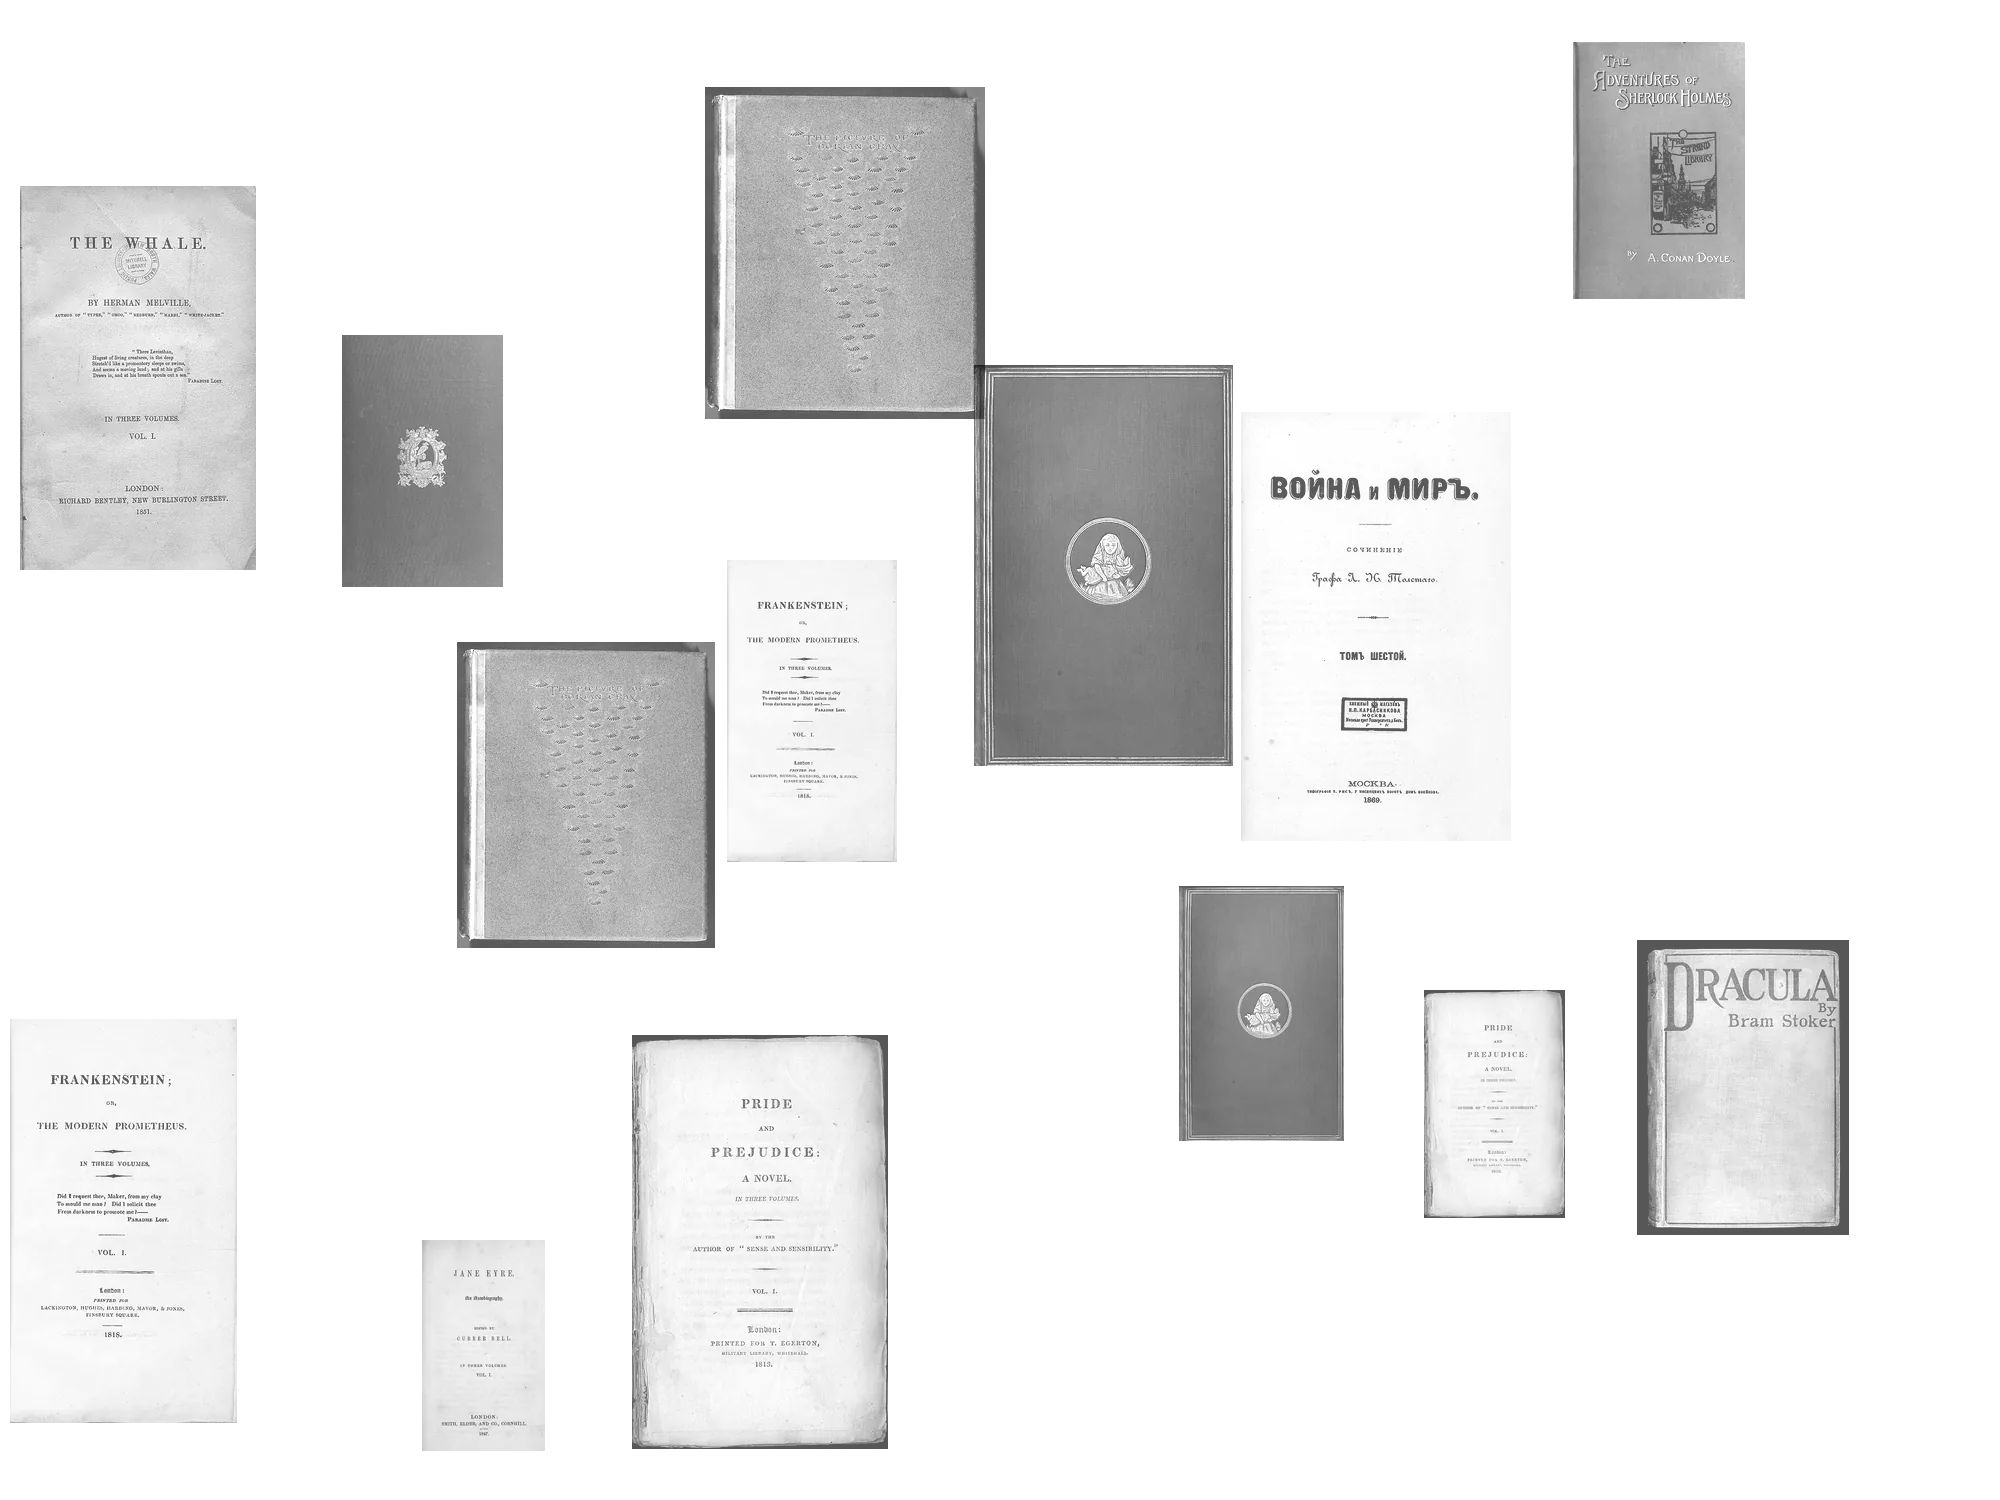
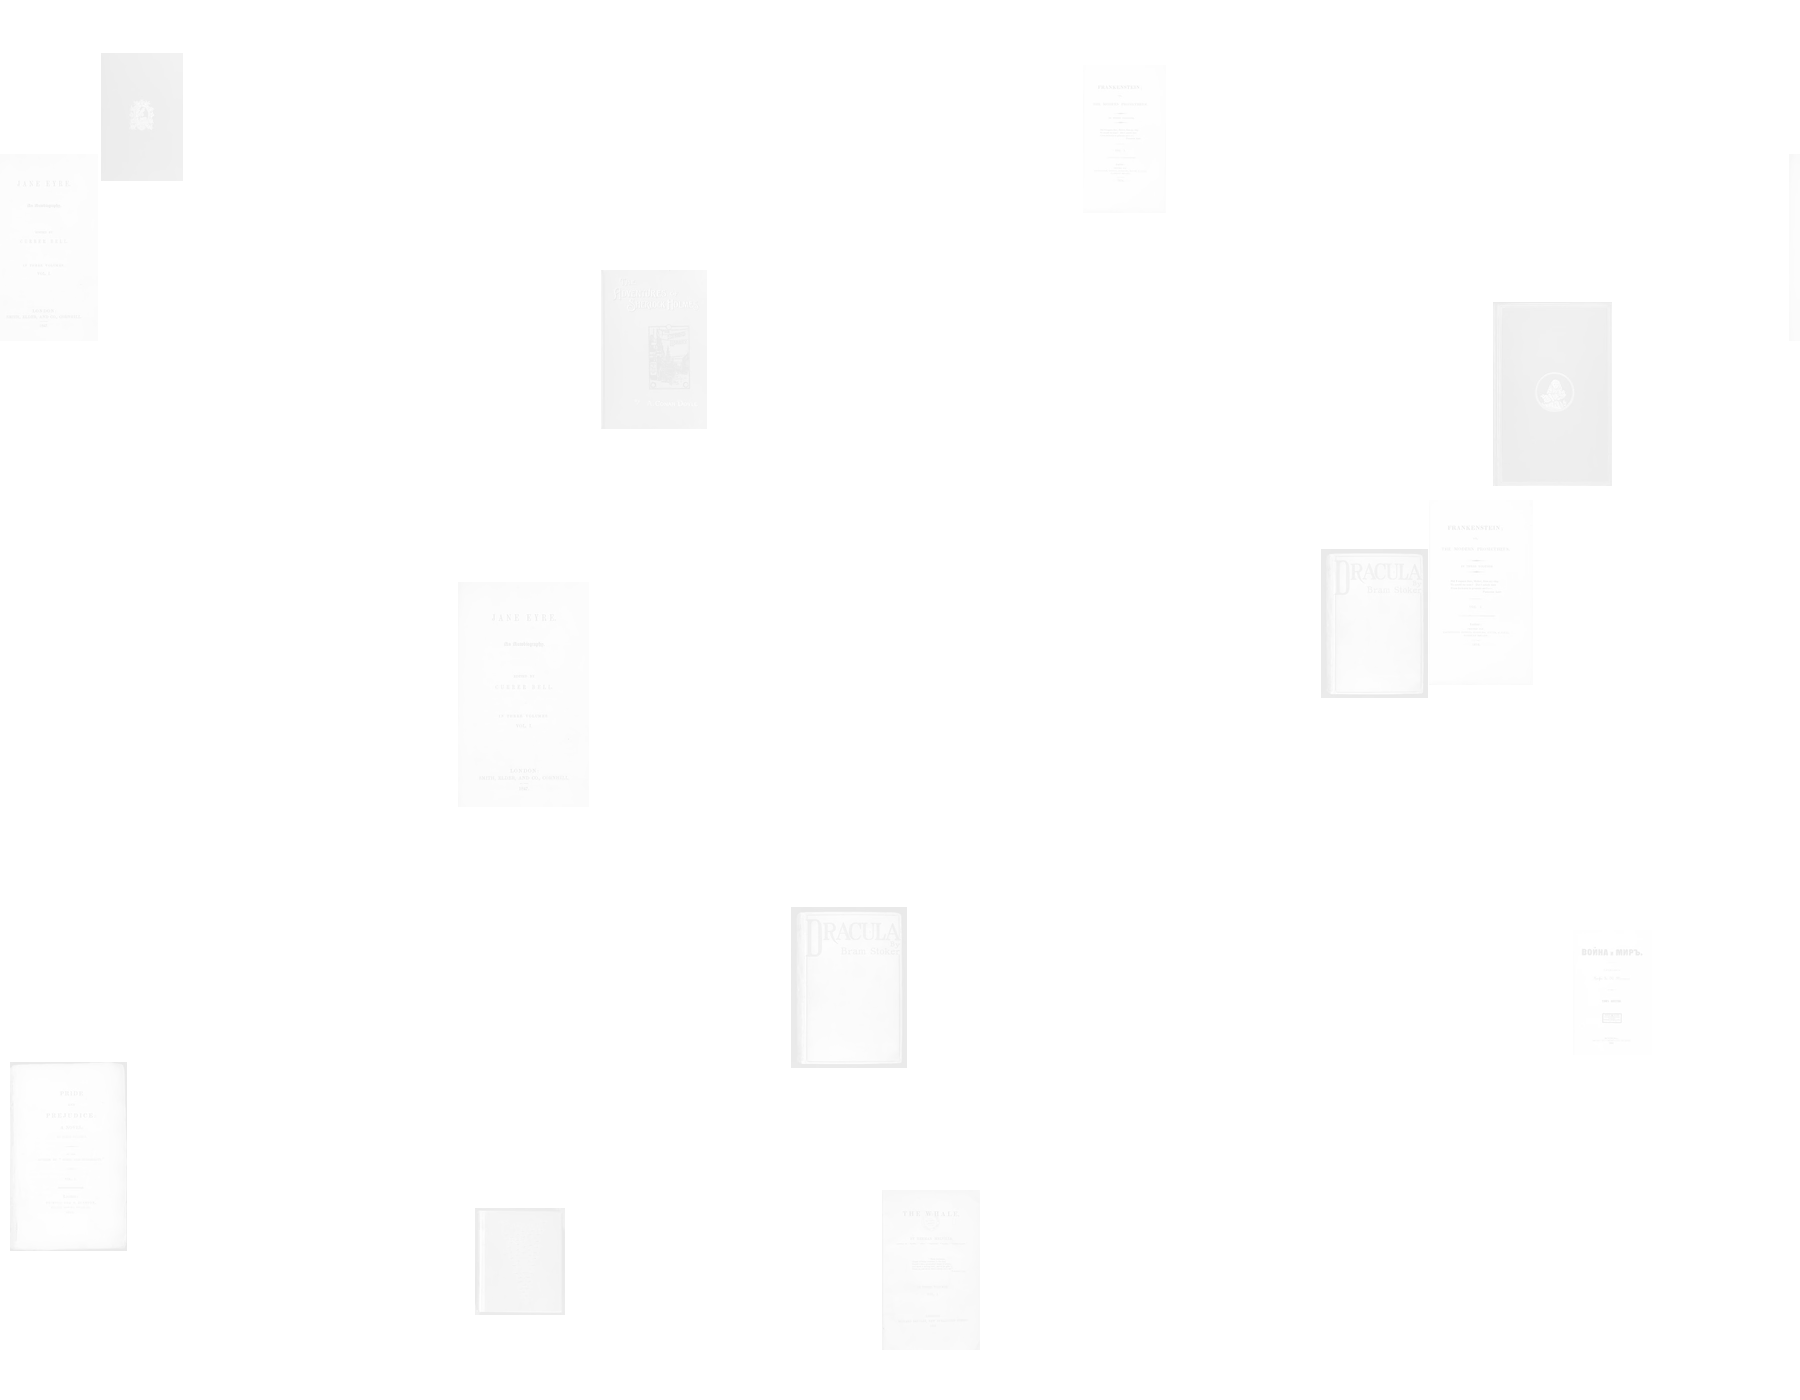
Make the book-cover background much smaller and fainter
The famous-book covers stay, but each one is a small grey mark and only a little lighter than the dark page.

diff --git a/frontend/src/components/Auth.css b/frontend/src/components/Auth.css
@@ -3,7 +3,7 @@
   background-color: #212529;
   background-image: url("/patterns/covers.webp");
   background-repeat: repeat;
-  background-size: 1280px 960px;
+  background-size: 480px 373px;
 }
 
 /* From Bootstrap's sign-in example (getbootstrap.com/docs/5.3/examples/sign-in): floating-label

diff --git a/frontend/src/layout.css b/frontend/src/layout.css
@@ -103,7 +103,7 @@ body {
 main.bg-dark {
   background-image: url("/patterns/covers.webp");
   background-repeat: repeat;
-  background-size: 1280px 960px;
+  background-size: 480px 373px;
 }
 
 .bg-body,
